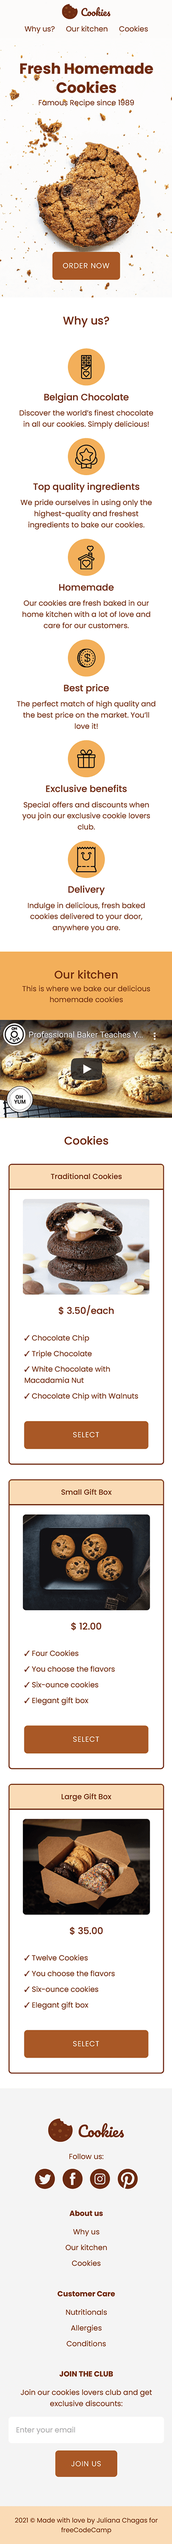
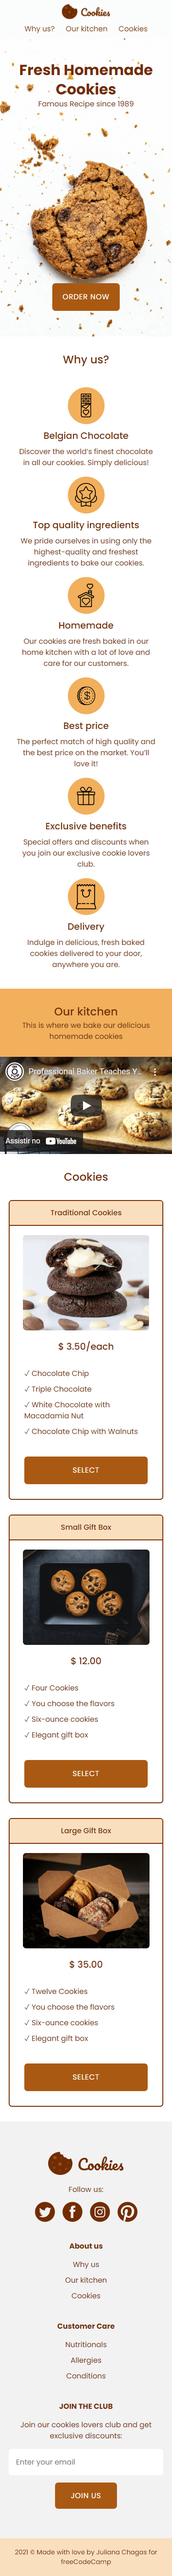
update css and screenshot

diff --git a/style.css b/style.css
@@ -612,19 +612,12 @@ section:not(.hero-section) {
     display: flex;
     flex-direction: column;
     align-items: center;
-    padding: 35% 5% 15%;    
-    /* padding: 25% 5% 3.5rem; */    
-    /* background-color: red; */
+    padding: 35% 5% 15%;     
   }
 
   .hero-cta {    
     margin-top: auto;
-  }  
-
-  .title {
-    /* max-width: 60%; */
-    margin: 0 auto;
-  }
+  }   
 
   .subtitle {
     max-width: 100%;
@@ -646,11 +639,7 @@ section:not(.hero-section) {
 
   .menu li:nth-child(3) {
     margin: 0 1.5rem;
-  }
-
-  .title {
-    /* max-width: 85%; */
-  }
+  }  
 }
 
 @media (max-width: 450px) and (orientation: portrait) {
@@ -672,18 +661,9 @@ section:not(.hero-section) {
 @media (max-width: 350px) {
   .menu li:nth-child(3) {
     margin: 0 1rem;
-  }
-
-  /* .hero-message {    
-    padding: 20% 5% 15%;    
-  } */
-
-  /* .hero-cta {
-    top: 35vh;
-  } */ 
+  }  
 
   .title {
-    font-size: 1.5rem;
-    /* max-width: 90%; */
+    font-size: 1.5rem;    
   }
 }
